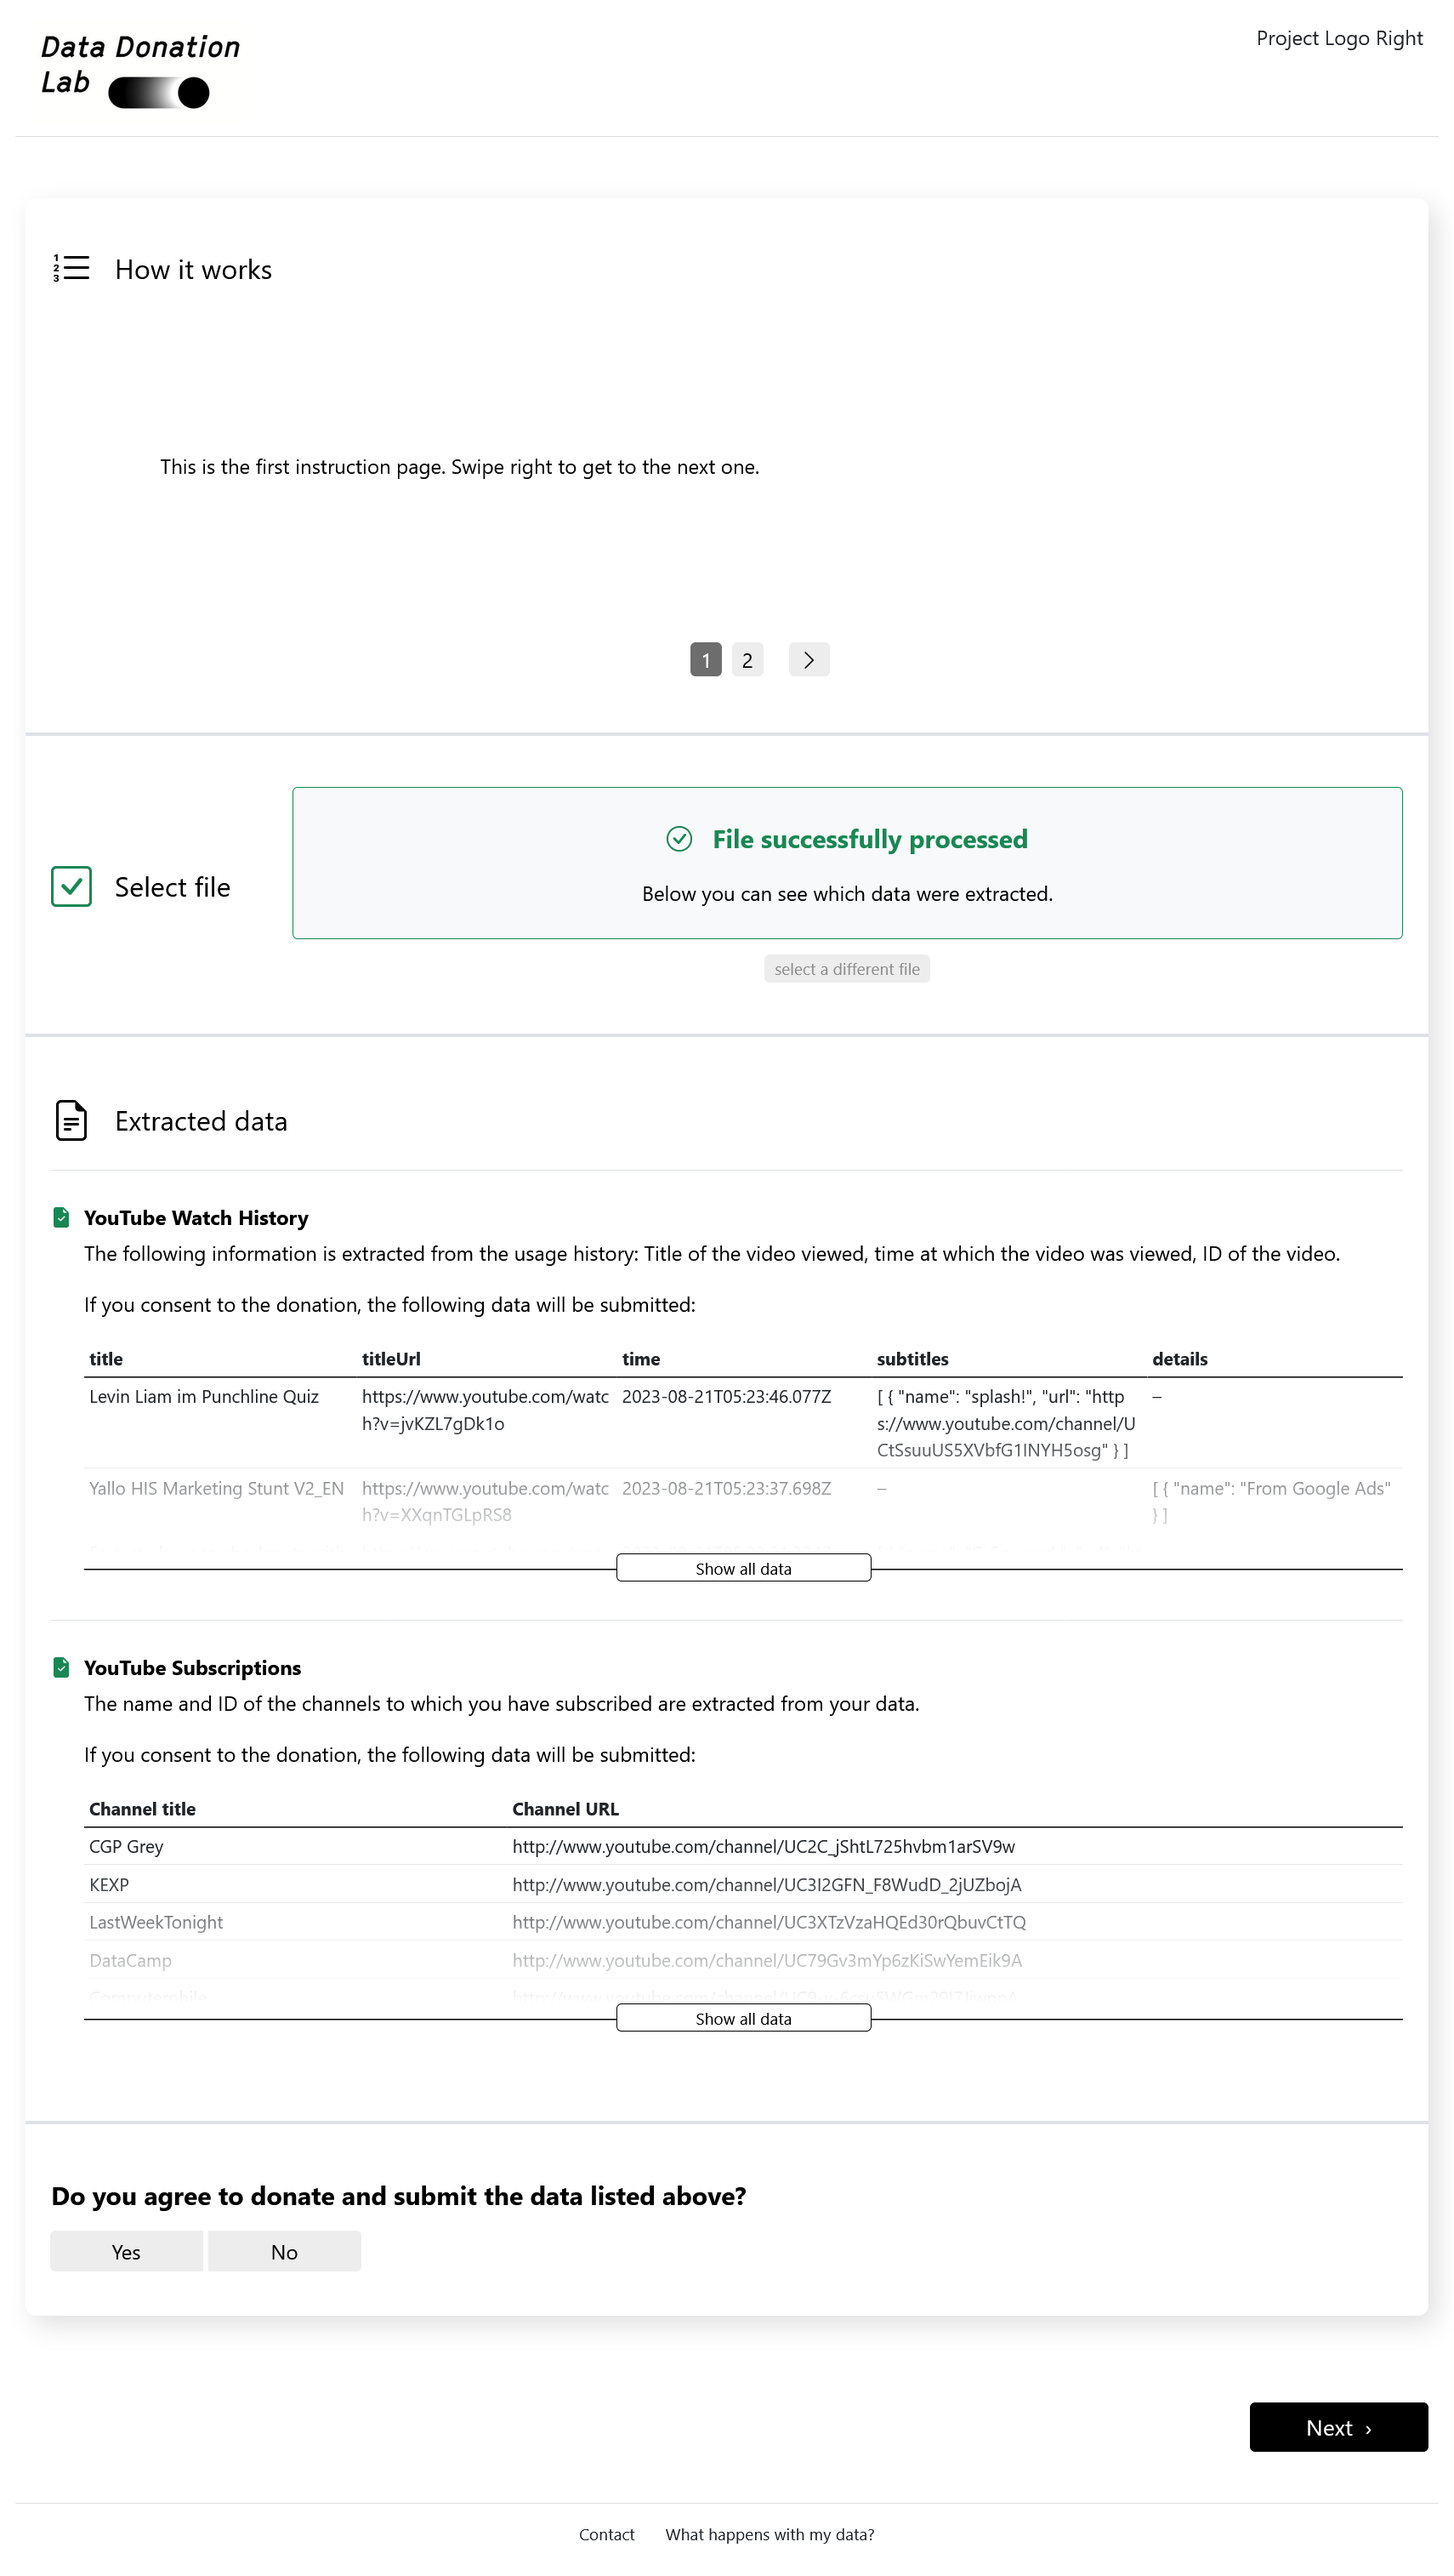
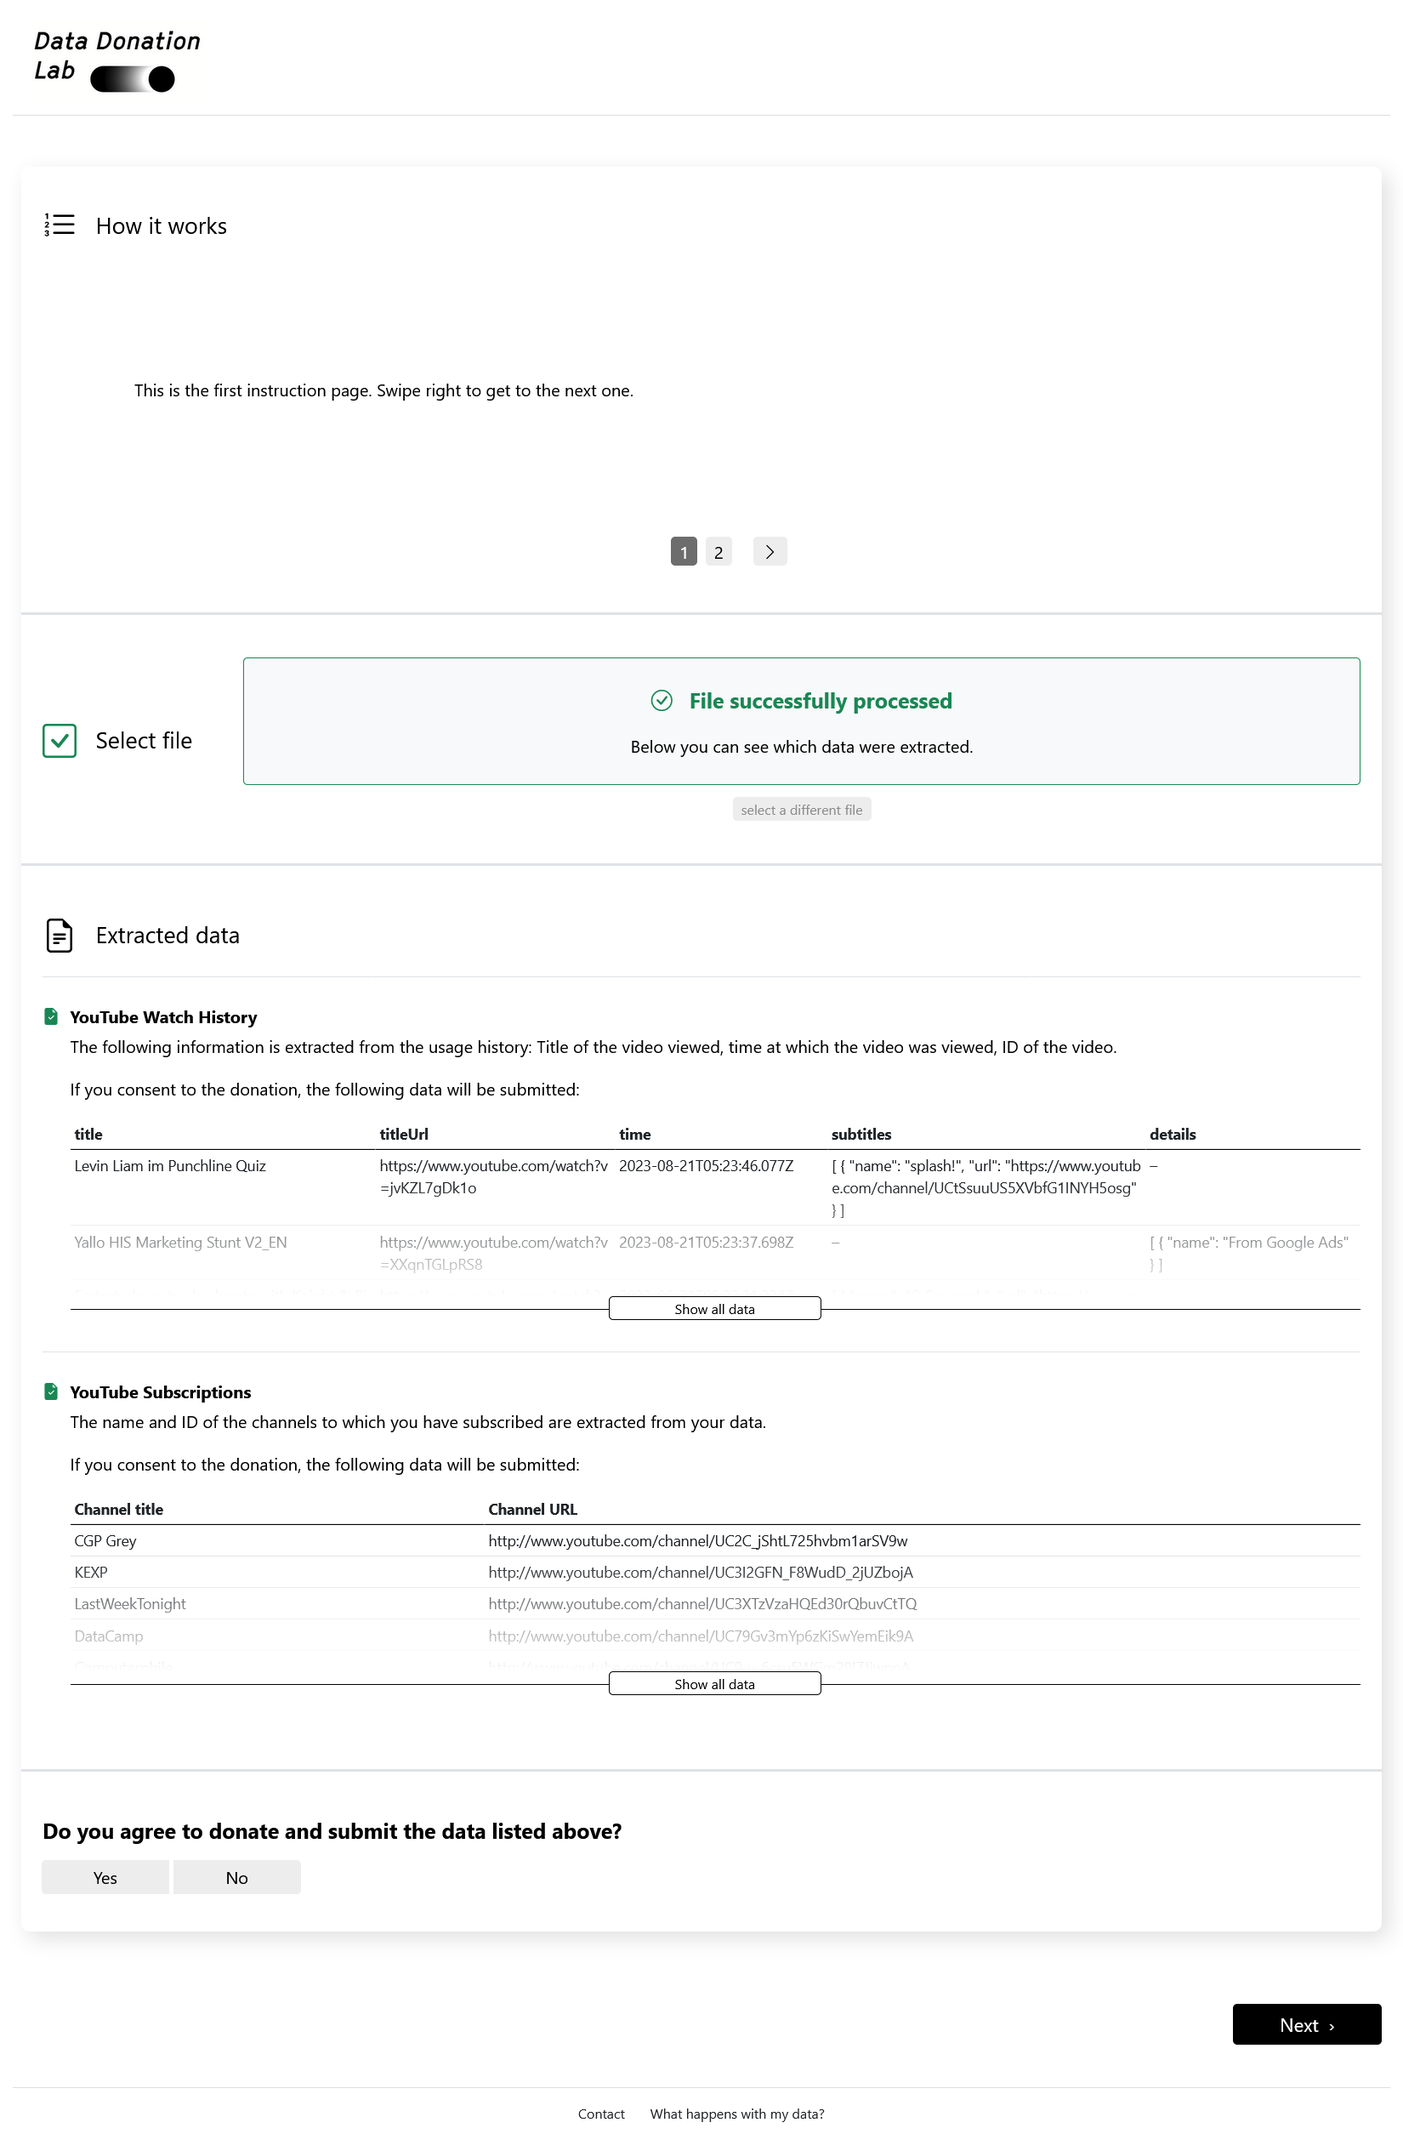
docs: updated screenshot script.

diff --git a/docs/update_screenshots.py b/docs/update_screenshots.py
@@ -40,21 +40,20 @@ def prepare_project(driver):
     url = f'projects/{PROJECT_ID}/data-donation/file-uploader/{FILE_UPLOADER_ID}/edit/'
     driver.get(BASE_URL + url)
 
-    WebDriverWait(driver, 10).until(EC.element_to_be_clickable((By.CSS_SELECTOR, 'label.checkmark[for="id_combined_consent"]')))
-    checkbox_label = driver.find_element(By.CSS_SELECTOR, 'label.checkmark[for="id_combined_consent"]')
+    WebDriverWait(driver, 10).until(EC.element_to_be_clickable((By.CSS_SELECTOR, 'input[id="id_combined_consent"]')))
+    consent_toggle = driver.find_element(By.CSS_SELECTOR, 'input[id="id_combined_consent"]')
     driver.maximize_window()
     time.sleep(1)
 
-    driver.execute_script("arguments[0].scrollIntoView(true);", checkbox_label)
+    driver.execute_script("arguments[0].scrollIntoView(true);", consent_toggle)
     time.sleep(1)
     driver.execute_script("window.scrollBy(0, 100);")
     time.sleep(1)
 
-    checkbox = driver.find_element(By.ID, 'id_combined_consent')
-    if checkbox.is_selected():
-        checkbox_label.click()
+    if consent_toggle.is_selected():
+        consent_toggle.click()
 
-    save_button = driver.find_element(By.CSS_SELECTOR, 'input[type="submit"][value="Save Uploader"]')
+    save_button = driver.find_element(By.CSS_SELECTOR, 'input[type="submit"][value="Update Uploader"]')
     time.sleep(1)
     save_button.click()
     return
@@ -73,43 +72,6 @@ def add_margins_to_sc(sc_path):
 
     # Replace the original screenshot.
     new_img.save(sc_path)
-    return
-
-def highlight_edit(driver, element):
-    driver.execute_script("""
-        var parent = arguments[0];
-        var child = parent.querySelector('.inline-edit');
-        if (child) {
-            child.style.background = '#ffd70094';
-            child.style.padding = '8px 20px';
-            child.style.borderRadius = '20px';
-        }
-    """, element)
-    return element
-
-def highlight_participation_overview_download(driver, element):
-    driver.execute_script("""
-        var parent = arguments[0];
-        var child = parent.querySelector('#download-participation-overview');
-        if (child) {
-            child.style.background = '#ffd70094';
-        }
-    """, element)
-    return element
-
-def highlight_responses_download(driver, element):
-    driver.execute_script("""
-        var parent = arguments[0];
-        var child = parent.querySelector('#download-questionnaire-responses');
-        if (child) {
-            child.style.background = '#ffd70094';
-        }
-    """, element)
-    return element
-
-def prepare_project_settings(driver):
-    button = driver.find_element(By.ID, 'accordionButtonGeneralSettings')
-    button.click()
     return
 
 def access_donation_stage(driver):
@@ -136,16 +98,15 @@ def enable_all_in_one_consent(driver):
     url = f'projects/{PROJECT_ID}/data-donation/file-uploader/{FILE_UPLOADER_ID}/edit/'
     driver.get(BASE_URL + url)
 
-    WebDriverWait(driver, 10).until(EC.element_to_be_clickable((By.CSS_SELECTOR, 'label[for="id_combined_consent"]')))
-    checkbox_label = driver.find_element(By.CSS_SELECTOR, 'label[for="id_combined_consent"]')
+    WebDriverWait(driver, 10).until(EC.element_to_be_clickable((By.CSS_SELECTOR, 'input[id="id_combined_consent"]')))
+    consent_toggle = driver.find_element(By.CSS_SELECTOR, 'input[id="id_combined_consent"]')
     driver.maximize_window()
     time.sleep(1)
 
-    checkbox = driver.find_element(By.ID, 'id_combined_consent')
-    if not checkbox.is_selected():
-        checkbox_label.click()
+    if not consent_toggle.is_selected():
+        consent_toggle.click()
 
-    save_button = driver.find_element(By.CSS_SELECTOR, 'input[type="submit"][value="Save Uploader"]')
+    save_button = driver.find_element(By.CSS_SELECTOR, 'input[type="submit"][value="Update Uploader"]')
     time.sleep(1)
     driver.execute_script("arguments[0].scrollIntoView(true);", save_button)
     time.sleep(1)
@@ -215,6 +176,11 @@ def access_debriefing(driver):
             break
     return
 
+def scroll_to_bottom(driver, element=None):
+    driver.execute_script('window.scrollTo(0, document.body.scrollHeight);')
+    time.sleep(1)
+    return element
+
 def load_element_list():
     elements_to_capture = [
         {
@@ -231,7 +197,7 @@ def load_element_list():
             'url': 'projects/create/',
             'element_id': 'ddm-main',
             'function_pre': None,
-            'function_post': None,
+            'function_post': scroll_to_bottom,
         },
         {
             'module': 'researchers',
@@ -239,22 +205,38 @@ def load_element_list():
             'url': f'projects/{PROJECT_ID}/',
             'element_id': 'ddm-main',
             'function_pre': None,
+            'function_post': scroll_to_bottom,
+        },
+        {
+            'module': 'researchers',
+            'sc_name': 'project_settings_pub_info.png',
+            'url': f'projects/{PROJECT_ID}/edit/public-information',
+            'element_id': 'ddm-main',
+            'function_pre': None,
+            'function_post': scroll_to_bottom,
+        },
+        {
+            'module': 'researchers',
+            'sc_name': 'project_settings_url_param.png',
+            'url': f'projects/{PROJECT_ID}/edit/url-parameter',
+            'element_id': 'ddm-main',
+            'function_pre': None,
             'function_post': None,
         },
         {
             'module': 'researchers',
-            'sc_name': 'project_hub_edit.png',
-            'url': f'projects/{PROJECT_ID}/',
-            'element_id': 'project-details',
+            'sc_name': 'project_settings_redirect.png',
+            'url': f'projects/{PROJECT_ID}/edit/redirect',
+            'element_id': 'ddm-main',
             'function_pre': None,
-            'function_post': highlight_edit,
+            'function_post': None,
         },
         {
             'module': 'researchers',
-            'sc_name': 'project_settings.png',
-            'url': f'projects/{PROJECT_ID}/edit/',
+            'sc_name': 'project_settings_branding.png',
+            'url': f'projects/{PROJECT_ID}/edit/branding',
             'element_id': 'ddm-main',
-            'function_pre': prepare_project_settings,
+            'function_pre': None,
             'function_post': None,
         },
         {
@@ -271,7 +253,7 @@ def load_element_list():
             'url': f'projects/{PROJECT_ID}/data-donation',
             'element_id': 'ddm-main',
             'function_pre': None,
-            'function_post': None,
+            'function_post': scroll_to_bottom,
         },
         # Screenshot Briefing Page
         {
@@ -337,39 +319,15 @@ def load_element_list():
             'module': 'researchers',
             'sc_name': 'data_download_section.png',
             'url': f'projects/{PROJECT_ID}/',
-            'element_id': 'data-download-section',
+            'element_id': 'data-center',
             'function_pre': None,
             'function_post': None,
-        },
-        {
-            'module': 'researchers',
-            'sc_name': 'download_participation_overview.png',
-            'url': f'projects/{PROJECT_ID}/',
-            'element_id': 'data-download-section',
-            'function_pre': None,
-            'function_post': highlight_participation_overview_download,
-        },
-        {
-            'module': 'researchers',
-            'sc_name': 'download_responses.png',
-            'url': f'projects/{PROJECT_ID}/',
-            'element_id': 'data-download-section',
-            'function_pre': None,
-            'function_post': highlight_responses_download,
         },
         {
             'module': 'researchers',
             'sc_name': 'project_log_section.png',
             'url': f'projects/{PROJECT_ID}/',
-            'element_id': 'project-log-section',
-            'function_pre': None,
-            'function_post': None,
-        },
-        {
-            'module': 'researchers',
-            'sc_name': 'participation_statistics_section.png',
-            'url': f'projects/{PROJECT_ID}/',
-            'element_id': 'participation-statistics-section',
+            'element_id': 'project-logs',
             'function_pre': None,
             'function_post': None,
         },
